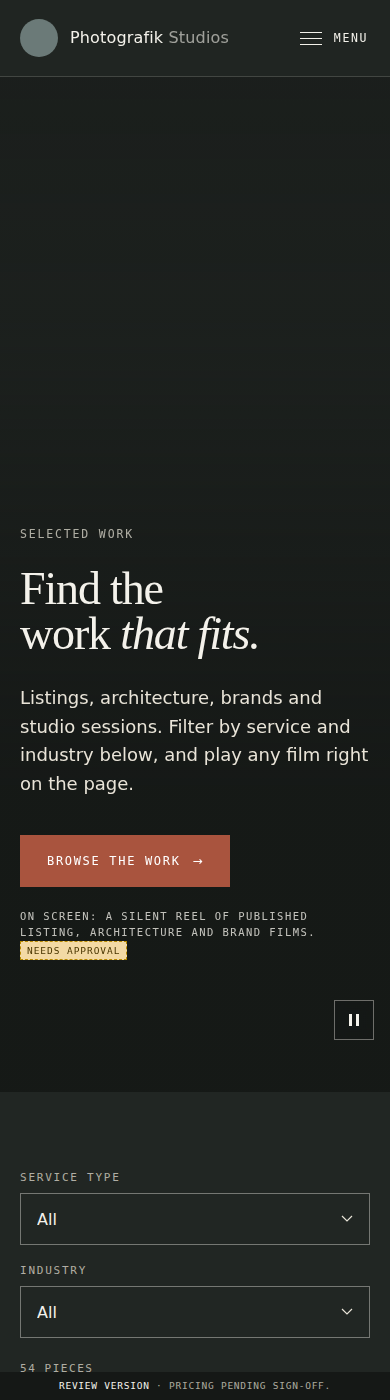
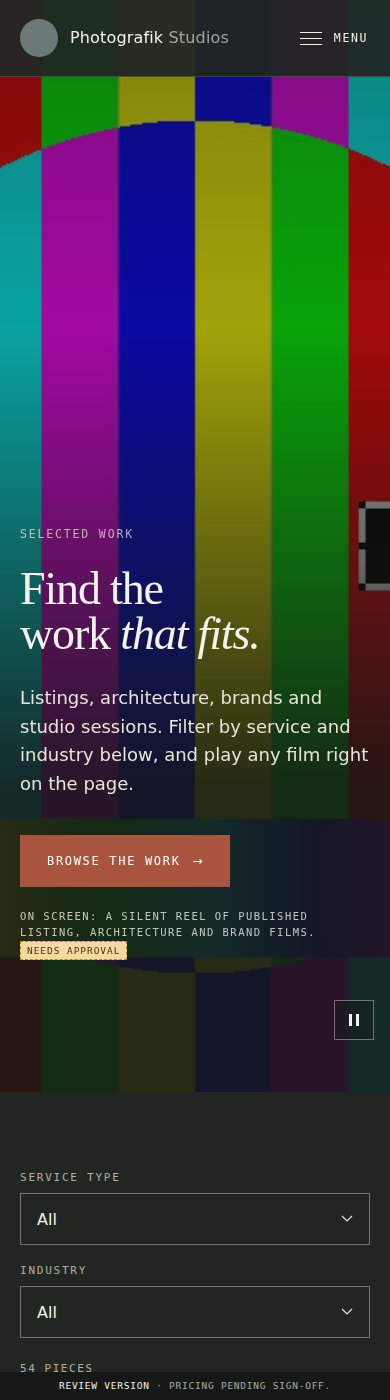
Hero videos autoplay silently in place: remove Watch the film button and full-film stage (James, Sep 25); Pause/Play video control; autoplay-blocked fallback keeps poster and offers Play; e2e updated
Claude-Session: https://claude.ai/code/session_01QdXDHTFB7SVkVxiv2k6vdC

diff --git a/src/pages.js b/src/pages.js
@@ -19,19 +19,10 @@ export function buildPages(ctx) {
   // ---------- shared pieces ----------
   const allMediaById = Object.fromEntries(work.media.map((m) => [m.id, m]));
   const mmss = (d) => `${Math.floor(d / 60)}:${String(d % 60).padStart(2, '0')}`;
-  // Hero film: a silent 16:9 loop behind the headline (paused for reduced motion, pausable by the visitor) and,
-  // when a full film exists, a "Watch the film" button that plays it with sound in the hero itself, never in a dialog.
-  const heroFilm = (filmId) => {
-    const film = filmId ? allMediaById[filmId] : null;
-    if (!film || !visible(film)) return { button: '', stage: '' };
-    return {
-      button: `<button type="button" class="btn btn--glass" data-hero-film-open aria-controls="hero-film" aria-expanded="false">Watch the film${film.duration ? ` <span class="btn__meta">${mmss(film.duration)}</span>` : ''}</button>`,
-      stage: `<div class="hero-film" id="hero-film" data-hero-film hidden><div class="hero-film__frame">${videoPlayer(film, { sizes: '100vw' })}</div><button type="button" class="hero-film__close" data-hero-film-close>Close film <span aria-hidden="true">×</span></button></div>`,
-    };
-  };
-  const motionToggle = '<button type="button" class="motion-toggle" data-motion-toggle aria-pressed="false"><span class="motion-toggle__icon" aria-hidden="true"></span><span class="motion-toggle__label">Pause background video</span></button>';
+  // Hero video: the page's relevant 16:9 footage autoplays silently in its frame (muted, playsinline, poster first).
+  // No separate film stage or play prompt; the visitor can pause it, and reduced motion or blocked autoplay keeps the poster.
+  const motionToggle = '<button type="button" class="motion-toggle" data-motion-toggle aria-pressed="false"><span class="motion-toggle__icon" aria-hidden="true"></span><span class="motion-toggle__label">Pause video</span></button>';
   const pageHero = ({ eyebrow, title, lede, cta = '', image, imageAlt = '', tone = 'dark', video }) => {
-    const hf = video ? heroFilm(video.film) : { button: '', stage: '' };
     const kind = video ? 'page-hero--image page-hero--video' : image ? 'page-hero--image' : 'page-hero--plain';
     return `
 <section class="page-hero ${kind} ${tone === 'dark' || video ? 'on-dark' : 'page-hero--ivory'}"${video ? ` data-hero-source="${esc(video.loop)}"` : ''}>
@@ -41,10 +32,9 @@ export function buildPages(ctx) {
     ${eyebrow ? `<p class="eyebrow">${esc(eyebrow)}</p>` : ''}
     <h1 class="display">${title}</h1>
     ${lede ? `<p class="lede">${lede}</p>` : ''}
-    ${cta || hf.button ? `<div class="actions">${cta}${hf.button}</div>` : ''}
+    ${cta ? `<div class="actions">${cta}</div>` : ''}
     ${video && allMediaById[video.credit || video.film || video.loop] ? `<p class="hero-credit">On screen: ${esc(allMediaById[video.credit || video.film || video.loop].title)}</p>` : video?.creditText ? `<p class="hero-credit">${esc(video.creditText)} ${video.pending ? needsApproval({ approval: 'pending' }, video.pending) : ''}</p>` : ''}
   </div>
-  ${hf.stage}
   ${video ? motionToggle : ''}
 </section>`;
   };
@@ -136,13 +126,12 @@ export function buildPages(ctx) {
     <div class="hero__foot">
       <div>
         <p class="lede">Listing campaigns, architecture and brand production for agents, builders and businesses across the Hamptons, the North Fork and Long Island.</p>
-        <div class="actions">${bookBtn('home_hero', 'Book a Shoot', 'btn btn--rust')}<a class="link-arrow" href="/contact" data-track="project_click" data-track-location="home_hero">Start a Project →</a>${heroFilm('re-hamptons-beachfront').button}</div>
+        <div class="actions">${bookBtn('home_hero', 'Book a Shoot', 'btn btn--rust')}<a class="link-arrow" href="/contact" data-track="project_click" data-track-location="home_hero">Start a Project →</a></div>
       </div>
       <p class="hero__meta">East End · Hamptons · North Fork<br>Suffolk · Nassau · NYC</p>
     </div>
   </div>
   <p class="hero-credit hero-credit--home wrap">On screen: ${esc(allMediaById['re-hamptons-beachfront']?.title || '')}</p>
-  ${heroFilm('re-hamptons-beachfront').stage}
   ${motionToggle}
 </section>
 

diff --git a/src/assets/site.js b/src/assets/site.js
@@ -145,13 +145,16 @@ function syncAmbient(v) {
   if (v.preload === 'none') v.preload = 'auto';
   v.muted = true;
   const p = v.play();
-  if (p && p.catch) p.catch(() => { /* autoplay refused: poster stays */ });
+  if (p && p.catch) p.catch(() => {
+    // Autoplay refused (browser policy, data saver): the poster stays and the control offers Play.
+    if (v.closest('.hero, .page-hero') && toggleBtn) { toggleBtn.setAttribute('aria-pressed', 'true'); toggleBtn.querySelector('.motion-toggle__label').textContent = 'Play video'; toggleBtn.dataset.blocked = '1'; }
+  });
 }
 function setMotion(off, remember) {
   motionOff = off;
   if (toggleBtn) {
     toggleBtn.setAttribute('aria-pressed', String(off));
-    toggleBtn.querySelector('.motion-toggle__label').textContent = off ? 'Play background video' : 'Pause background video';
+    toggleBtn.querySelector('.motion-toggle__label').textContent = off ? 'Play video' : 'Pause video';
   }
   if (remember) { try { localStorage.setItem('pgk-motion', off ? 'off' : 'on'); } catch { /* ignore */ } }
   ambients.forEach(syncAmbient);
@@ -165,37 +168,10 @@ if (ambients.length) {
   } else ambients.forEach((v) => { inView.set(v, true); syncAmbient(v); });
   reduce.addEventListener?.('change', (m) => setMotion(m.matches, false));
   document.addEventListener('visibilitychange', () => ambients.forEach(syncAmbient));
-  toggleBtn?.addEventListener('click', () => setMotion(!motionOff, true));
+  toggleBtn?.addEventListener('click', () => {
+    // After a blocked autoplay the click is a user gesture, so Play can start the footage.
+    if (toggleBtn.dataset.blocked) { delete toggleBtn.dataset.blocked; setMotion(false, true); } else setMotion(!motionOff, true);
+  });
   setMotion(motionOff, false);
 }
 
-// ---------- Hero film: "Watch the film" plays the full film with sound inside the hero (never a dialog) ----------
-// Opening pauses the silent background loop; closing stops the film and restores the visitor's motion choice.
-const heroStage = document.querySelector('[data-hero-film]');
-const heroOpen = document.querySelector('[data-hero-film-open]');
-if (heroStage && heroOpen) {
-  const hero = heroStage.closest('section');
-  const player = heroStage.querySelector('[data-video]');
-  const video = player.querySelector('video');
-  let motionBefore = motionOff;
-  const close = () => {
-    video.pause();
-    heroStage.hidden = true;
-    hero.classList.remove('is-film-open');
-    heroOpen.setAttribute('aria-expanded', 'false');
-    if (ambients.length) setMotion(motionBefore, false);
-    heroOpen.focus();
-  };
-  heroOpen.addEventListener('click', () => {
-    motionBefore = motionOff;
-    if (ambients.length) setMotion(true, false);
-    heroStage.hidden = false;
-    hero.classList.add('is-film-open');
-    heroOpen.setAttribute('aria-expanded', 'true');
-    player.querySelector('.vplayer__start')?.click();
-    track('hero_film_open', { video: player.dataset.id });
-  });
-  heroStage.querySelector('[data-hero-film-close]').addEventListener('click', close);
-  heroStage.addEventListener('keydown', (e) => { if (e.key === 'Escape') close(); });
-  video.addEventListener('ended', close);
-}

diff --git a/src/assets/styles.css b/src/assets/styles.css
@@ -684,17 +684,8 @@ button.gcard__open:hover .sw-card__play { transform: scale(1.06); }
 .page-hero--video .page-hero__media { background: #151816; }
 .btn__meta { font: 400 10.5px/1 var(--mono); letter-spacing: .12em; opacity: .8; margin-left: 6px; }
 .hero-credit { margin: 22px 0 0; font: 400 10.5px/1.5 var(--mono); letter-spacing: .14em; text-transform: uppercase; color: rgba(244,242,235,.78); }
-.hero-film { position: absolute; inset: 0; z-index: 5; display: flex; align-items: center; justify-content: center; padding: clamp(84px, 11vh, 110px) clamp(12px, 3vw, 40px) clamp(16px, 3vh, 40px); background: #0e100f; }
-.hero-film[hidden] { display: none; }
-.hero-film__frame { width: min(100%, calc((100svh - 150px) * 16 / 9)); }
-.hero-film__frame .vplayer { width: 100%; }
-.hero-film__close { position: absolute; top: clamp(78px, 10vh, 100px); right: clamp(12px, 3vw, 40px); z-index: 2; min-height: 40px; padding: 8px 14px; border: 1px solid rgba(244,242,235,.4); background: rgba(21,24,22,.6); color: var(--ivory); font: 400 10.5px/1 var(--mono); letter-spacing: .14em; text-transform: uppercase; cursor: pointer; }
-.hero-film__close:hover { background: var(--ivory); color: var(--charcoal); }
-.hero.is-film-open .hero__inner, .page-hero.is-film-open .page-hero__inner, .is-film-open .motion-toggle { visibility: hidden; }
 @media (max-width: 700px) {
   .page-hero--video { min-height: 78svh; }
-  .hero-film { padding-top: 120px; }
-  .hero-film__close { top: 72px; }
 }
 .work-head { padding-top: clamp(40px, 6vh, 64px); }
 
